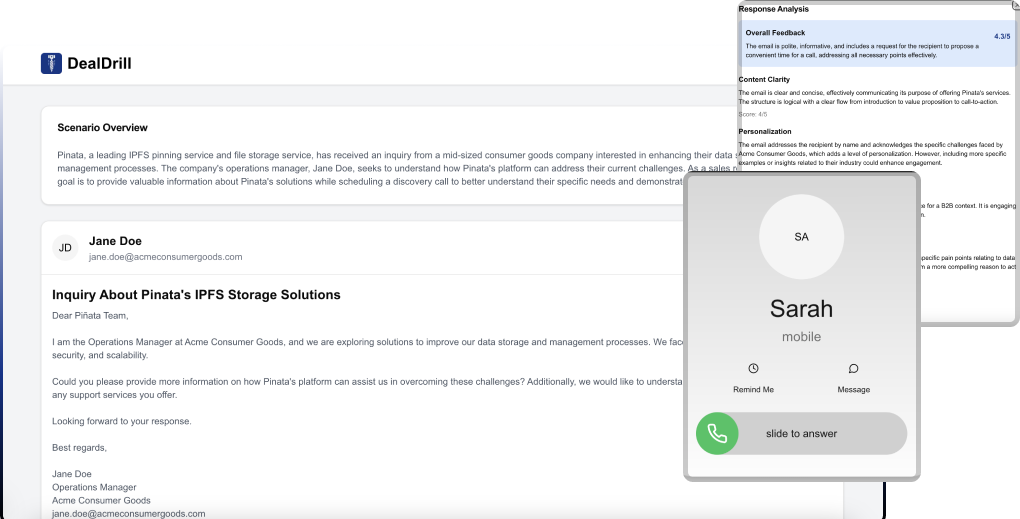
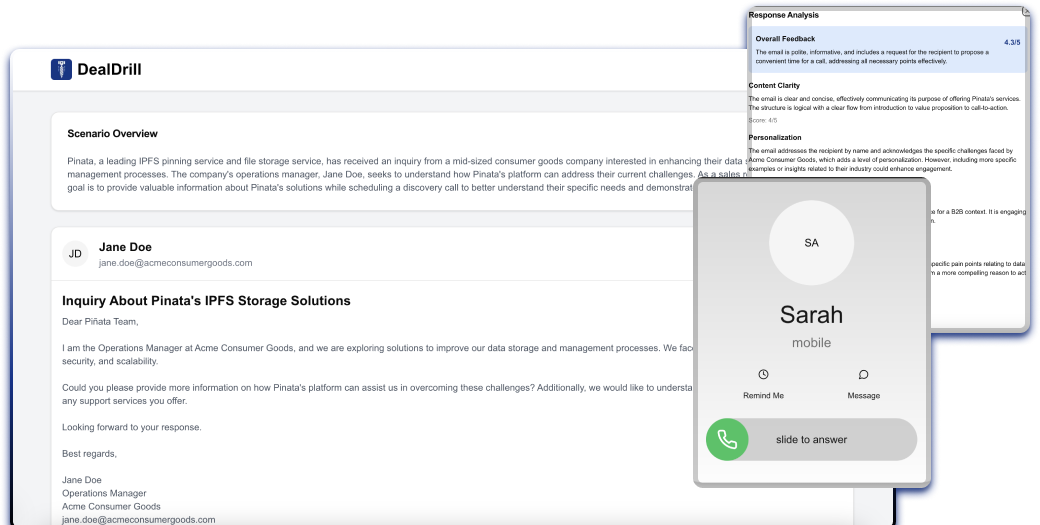
updated landing + sambanova scenario

diff --git a/components/sambanova-scenario.tsx b/components/sambanova-scenario.tsx
@@ -1,0 +1,284 @@
+"use client";
+
+import { useState } from "react";
+import {
+    Avatar,
+    AvatarImage,
+    AvatarFallback,
+} from "@/components/ui/avatar";
+import {
+    Card,
+    CardContent,
+    CardDescription,
+    CardHeader,
+    CardTitle,
+} from "@/components/ui/card";
+import { Button } from "@/components/ui/button";
+import { Textarea } from "@/components/ui/textarea";
+import { ScrollArea } from "@/components/ui/scroll-area";
+import { Drill, Mail, User } from "lucide-react";
+import { toast } from "@/hooks/use-toast";
+import {
+    Dialog,
+    DialogContent,
+    DialogHeader,
+    DialogTitle,
+} from "@/components/ui/dialog";
+import Link from "next/link";
+import Logo from "@/public/img/logo.png";
+import Image from "next/image";
+
+interface FeedbackResponse {
+    contentClarity: {
+        feedback: string;
+        score: number;
+    };
+    personalization: {
+        feedback: string;
+        score: number;
+    };
+    toneAndStyle: {
+        feedback: string;
+        score: number;
+    };
+    valueProposition: {
+        feedback: string;
+        score: number;
+    };
+    status: string;
+    reason: string;
+}
+
+export function SambanovaScenario() {
+    const [response, setResponse] = useState("");
+    const [isSubmitting, setIsSubmitting] = useState(false);
+    const [feedback, setFeedback] = useState<FeedbackResponse | null>(null);
+    const [showFeedback, setShowFeedback] = useState(false);
+
+    const handleSubmit = async () => {
+        setIsSubmitting(true);
+        try {
+        const url =
+            "https://magicloops.dev/api/loop/4818a939-6705-4ae3-a60a-8faed7845c4f/run";
+        const apiResponse = await fetch(url, {
+            method: "POST",
+            headers: {
+            "Content-Type": "application/json",
+            },
+            body: JSON.stringify(response),
+        });
+
+        const feedbackData = await apiResponse.json();
+        setFeedback(feedbackData);
+
+        // Store response in localStorage
+        localStorage.setItem("sambanovaScenarioResponse", response);
+
+        toast({
+            title: "Response Submitted",
+            description: "Your response has been analyzed successfully.",
+        });
+        setShowFeedback(true);
+        } catch (error) {
+        console.error("Error submitting response:", error);
+        toast({
+            title: "Error",
+            description: "Failed to submit response. Please try again.",
+            variant: "destructive",
+        });
+        } finally {
+        setIsSubmitting(false);
+        }
+    };
+
+    return (
+        <div className="min-h-screen bg-gray-100 dark:bg-gray-900">
+        <header className="bg-white dark:bg-gray-800 shadow">
+            <div className="max-w-7xl mx-auto px-4 sm:px-6 lg:px-8 py-4 flex items-center">
+            <div className="flex items-center space-x-2">
+                <a href="/dashboard" className="flex items-center space-x-2">
+                <Image
+                    src={Logo}
+                    alt="DealDrill Logo"
+                    width={32}
+                    height={32}
+                />
+                <h1 className="text-2xl font-bold text-black dark:text-white">
+                    DealDrill
+                </h1>
+                </a>
+            </div>
+            </div>
+        </header>
+
+        <main className="max-w-7xl mx-auto px-4 sm:px-6 lg:px-8 py-8 space-y-6">
+            <Card>
+            <CardHeader>
+                <CardTitle>Scenario Overview</CardTitle>
+            </CardHeader>
+            <CardContent>
+                <p className="text-sm text-gray-600 dark:text-gray-400">
+                SambaNova, a leading AI platform provider specializing in large language models,
+                has received an inquiry from a mid-sized technology company
+                interested in implementing AI solutions for their business processes. The company&apos;s 
+                CTO, Jane Doe, seeks to understand how SambaNova&apos;s LLM platform can enhance their 
+                current operations. As a sales representative, your goal is to provide valuable information 
+                about SambaNova&apos;s solutions while scheduling a discovery call to better understand 
+                their specific needs and demonstrate the platform&apos;s capabilities.
+                </p>
+            </CardContent>
+            </Card>
+
+            <Card>
+            <CardHeader className="border-b p-4">
+                <div className="flex items-center space-x-4">
+                <Avatar>
+                    <AvatarImage src="/placeholder.svg?height=40&width=40" alt="JD" />
+                    <AvatarFallback>JD</AvatarFallback>
+                </Avatar>
+                <div className="flex-1">
+                    <h2 className="text-lg font-semibold">Jane Doe</h2>
+                    <p className="text-sm text-gray-500">jane.doe@techcompany.com</p>
+                </div>
+                <div className="text-sm text-gray-500">
+                    {new Date().toLocaleString()}
+                </div>
+                </div>
+            </CardHeader>
+            <CardContent className="p-4">
+            <h3 className="text-xl font-semibold mb-2">Inquiry About SambaNova&apos;s LLM Solutions</h3>
+                <p className="text-sm text-gray-600 dark:text-gray-400 whitespace-pre-line">
+                Dear SambaNova Team,
+                <br />
+                <br />
+                I am the Director of Hack University Texas, Dallas, and we are organizing our annual hackathon event, Hack UTD 2024. We're looking to partner with leading AI companies to provide participants with cutting-edge tools and technologies for their projects. Given SambaNova's expertise in AI and LLMs, we believe you would be an excellent sponsor for our event.
+                <br />
+                <br />
+                We're interested in exploring potential sponsorship opportunities that could include providing access to your AI platform for participants, technical mentorship, and workshop sessions. Our hackathon typically attracts over 500 developers and AI enthusiasts, offering great visibility for innovative AI platforms like SambaNova.
+                <br />
+                <br />
+                Looking forward to your response.
+                <br />
+                <br />
+                Best regards,
+                <br />
+                <br />
+                Jane Doe
+                <br />
+                Chief Technology Officer
+                <br />
+                Tech Solutions Inc.
+                <br />
+                jane.doe@techcompany.com
+                <br />
+                (555) 123-4567
+                </p>
+            </CardContent>
+            </Card>
+
+            <Card>
+            <CardHeader className="border-b p-4">
+                <div className="flex items-center space-x-4">
+                <Avatar>
+                    <AvatarImage src="/placeholder.svg?height=40&width=40" alt="JD" />
+                    <AvatarFallback>US</AvatarFallback>
+                </Avatar>
+                <div className="flex-1">
+                    <h2 className="text-lg font-semibold"><span>Salesperson&apos;s Response</span></h2>
+                    <p className="text-sm text-gray-500">salesperson@email.com</p>
+                </div>
+                <div className="text-sm text-gray-500">
+                    {new Date().toLocaleString()}
+                </div>
+                </div>
+            </CardHeader>
+            <CardContent>
+                <Textarea
+                placeholder="Type your response here..."
+                value={response}
+                onChange={(e) => setResponse(e.target.value)}
+                rows={10}
+                className="w-full mt-5"
+                />
+                <div className="mt-4 flex justify-end">
+                <Button disabled={isSubmitting} onClick={handleSubmit}>
+                    {isSubmitting ? (
+                    <div className="animate-spin rounded-full h-4 w-4 border-t-4 border-b-4 border-blue-500"></div>
+                    ) : (
+                    "Submit Response"
+                    )}
+                </Button>
+                </div>
+            </CardContent>
+            </Card>
+        </main>
+
+        <Dialog open={showFeedback} onOpenChange={setShowFeedback}>
+            <DialogContent className="max-w-2xl">
+            <DialogHeader>
+                <DialogTitle>Response Analysis</DialogTitle>
+            </DialogHeader>
+            {feedback && (
+                <div className="space-y-4">
+                <div className="space-y-2 bg-blue-100 p-4 rounded-lg relative">
+                    <h3 className="font-semibold">Overall Feedback</h3>
+                    <p className="text-sm">
+                    {
+                        feedback.reason ||
+                        "This is an aggregated score based on all feedback categories."
+                    }
+                    </p>
+                    <div className="absolute top-4 right-4 text-[#163286] font-semibold">
+                    {(
+                        (feedback.contentClarity.score +
+                        feedback.personalization.score +
+                        feedback.toneAndStyle.score +
+                        feedback.valueProposition.score) /
+                        4
+                    ).toFixed(1)}
+                    /5
+                    </div>
+                </div>
+                <div className="space-y-2">
+                    <h3 className="font-semibold">Content Clarity</h3>
+                    <p className="text-sm">{feedback.contentClarity.feedback}</p>
+                    <div className="text-sm text-muted-foreground">
+                    Score: {feedback.contentClarity.score}/5
+                    </div>
+                </div>
+                <div className="space-y-2">
+                    <h3 className="font-semibold">Personalization</h3>
+                    <p className="text-sm">{feedback.personalization.feedback}</p>
+                    <div className="text-sm text-muted-foreground">
+                    Score: {feedback.personalization.score}/5
+                    </div>
+                </div>
+                <div className="space-y-2">
+                    <h3 className="font-semibold">Tone and Style</h3>
+                    <p className="text-sm">{feedback.toneAndStyle.feedback}</p>
+                    <div className="text-sm text-muted-foreground">
+                    Score: {feedback.toneAndStyle.score}/5
+                    </div>
+                </div>
+                <div className="space-y-2">
+                    <h3 className="font-semibold">Value Proposition</h3>
+                    <p className="text-sm">{feedback.valueProposition.feedback}</p>
+                    <div className="text-sm text-muted-foreground">
+                    Score: {feedback.valueProposition.score}/5
+                    </div>
+                </div>
+                {feedback.status === "ok" && (
+                    <div className="pt-4 flex justify-center">
+                    <Button asChild>
+                        <Link href="/ai-chat">Proceed to Voice Chat</Link>
+                    </Button>
+                    </div>
+                )}
+                </div>
+            )}
+            </DialogContent>
+        </Dialog>
+
+        </div>
+    );
+}

diff --git a/app/landingpage/page.tsx b/app/landingpage/page.tsx
@@ -50,7 +50,7 @@ export default function LandingPage() {
                 </p>
               </div>
               <Button
-                className="inline-flex h-12 items-center justify-center rounded-full px-8 text-base font-medium !bg-black text-white"
+                className="inline-flex h-12 items-center justify-center rounded-full px-8 text-base font-medium hover:bg-gray-800 text-white transition-colors duration-300"
               >
                 <Link href="/dashboard" className="flex items-center">
                   Start Demo

diff --git a/app/sambanova/page.tsx b/app/sambanova/page.tsx
@@ -1,0 +1,5 @@
+import { SambanovaScenario } from "@/components/sambanova-scenario";
+
+export default function DashboardPage() {
+    return <SambanovaScenario />;
+}
